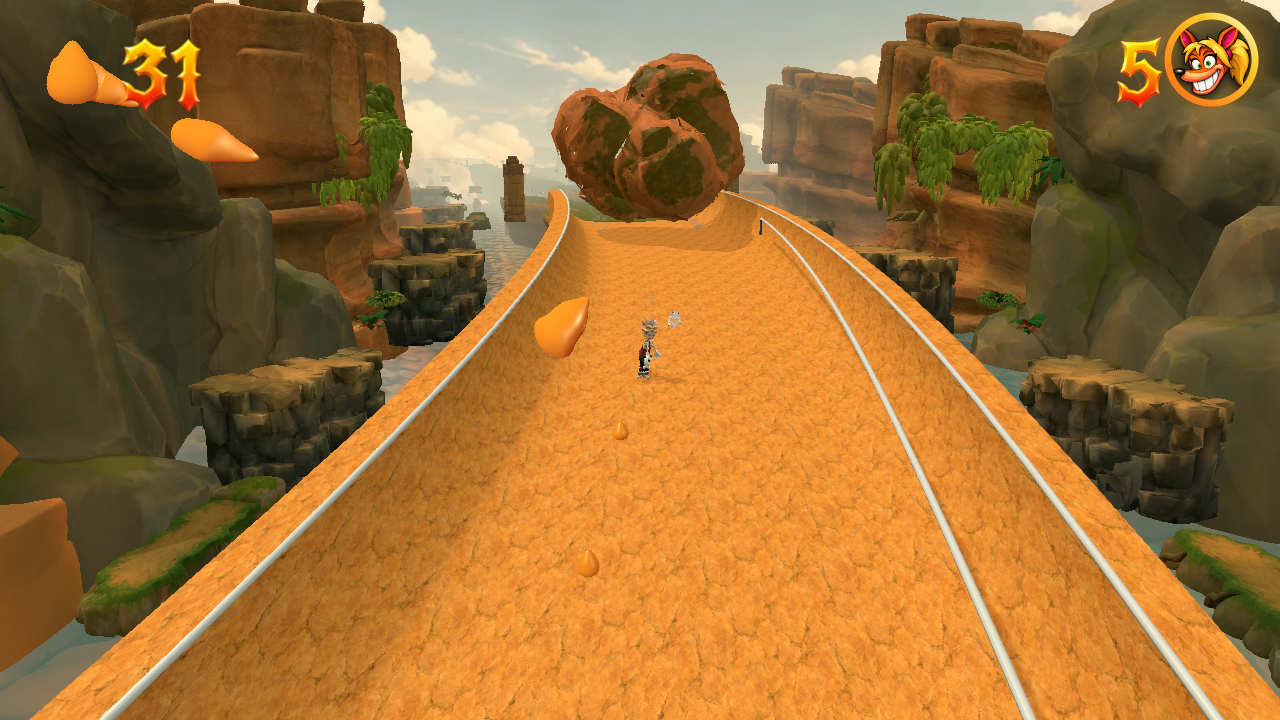
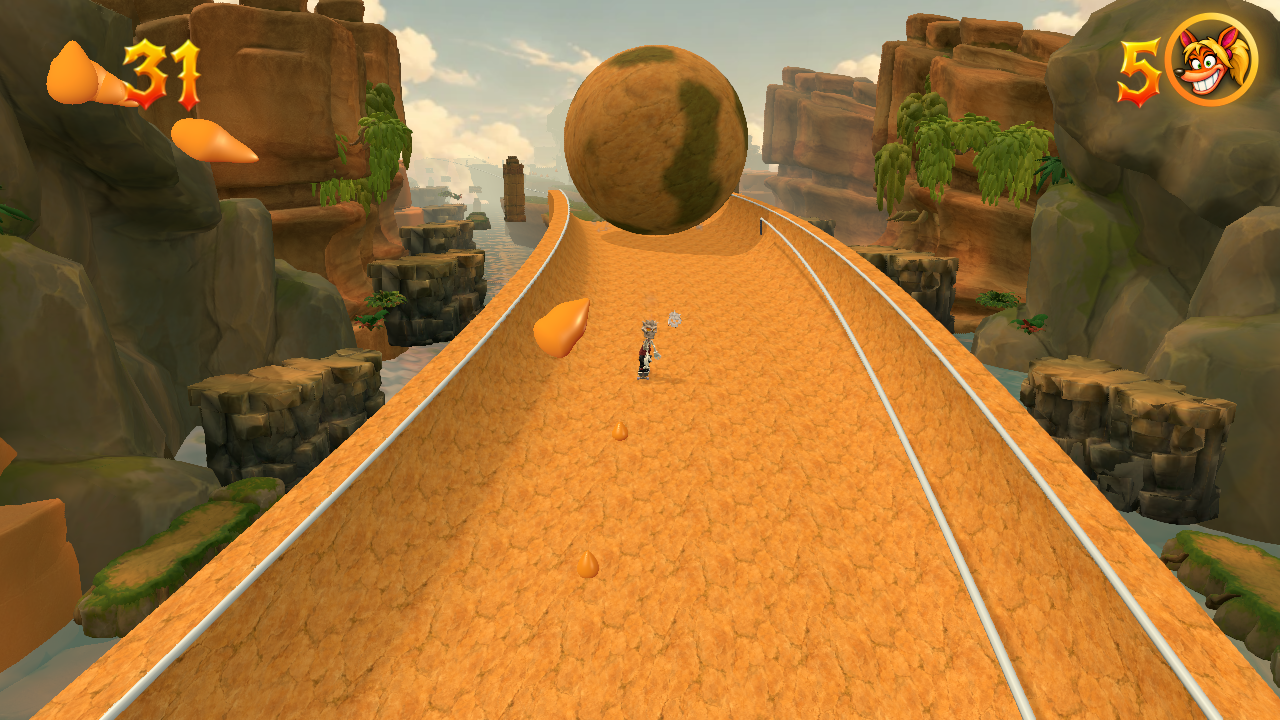
Round the Rumblewater chase boulder and align its roll

diff --git a/src/roundBoulder.ts b/src/roundBoulder.ts
@@ -1,0 +1,72 @@
+import * as THREE from 'three';
+import {mergeVertices} from 'three/examples/jsm/utils/BufferGeometryUtils.js';
+
+const seeds=Array.from({length:27},(_,i)=>{
+  const y=1-2*(i+.5)/27,a=i*2.399963229728653,r=Math.sqrt(1-y*y);
+  return new THREE.Vector3(r*Math.cos(a),y,r*Math.sin(a));
+});
+const smooth=(a:number,b:number,x:number)=>THREE.MathUtils.smoothstep(x,a,b);
+const weather=(p:THREE.Vector3)=>.45*Math.sin(p.x*7.3+p.y*3.4)*Math.cos(p.z*5.8-p.y*2.3)
+  +.35*Math.sin(p.z*11.1-p.x*4.6)*Math.cos(p.y*8.2+p.x*1.8)
+  +.2*Math.sin(p.x*19.2+p.z*16.7)*Math.sin(p.y*17.3-p.z*7.1);
+
+/** One continuous spherical shell. Relief is bounded to 1.8% of the radius;
+ * weathering and hairline joints can never turn it back into a pile of slabs. */
+export function roundBoulderSurface(direction:THREE.Vector3):{radius:number;crack:number;moss:number} {
+  let first=-Infinity,second=-Infinity,a=seeds[0],b=seeds[1];
+  for(const seed of seeds){
+    const d=direction.dot(seed);
+    if(d>first){second=first;b=a;first=d;a=seed;}else if(d>second){second=d;b=seed;}
+  }
+  const margin=(first-second)/a.distanceTo(b);
+  const crack=1-smooth(.002,.016,margin);
+  const patch=.5*Math.sin(direction.x*4.7+direction.z*2.6)*Math.cos(direction.y*5.1-1.4)
+    +.3*Math.sin(direction.y*7.8+direction.x*2.1)*Math.cos(direction.z*6.5+.8)+weather(direction)*.2;
+  return {radius:.998+weather(direction)*.002-.014*crack,crack,moss:smooth(.08,.31,patch)};
+}
+
+export function createRoundBoulderGeometry(detail:number):THREE.BufferGeometry {
+  const source=new THREE.IcosahedronGeometry(1,detail);
+  // Triplanar stone has no UV seam; welding also keeps its lighting smooth
+  // across every former icosahedron/texture boundary.
+  source.deleteAttribute('uv');source.deleteAttribute('normal');
+  const geometry=mergeVertices(source,1e-6);source.dispose();
+  const position=geometry.getAttribute('position'),colors=new Float32Array(position.count*3),p=new THREE.Vector3();
+  const stone=new THREE.Color('#ddd5bb'),moss=new THREE.Color('#66884b'),color=new THREE.Color();
+  for(let i=0;i<position.count;i++){
+    p.fromBufferAttribute(position,i).normalize();const surface=roundBoulderSurface(p);
+    position.setXYZ(i,p.x*surface.radius,p.y*surface.radius,p.z*surface.radius);
+    color.copy(stone).lerp(moss,surface.moss*.9).multiplyScalar(1-surface.crack*.37);
+    color.toArray(colors,i*3);
+  }
+  geometry.setAttribute('color',new THREE.BufferAttribute(colors,3));
+  geometry.computeVertexNormals();geometry.computeBoundingBox();geometry.computeBoundingSphere();
+  return geometry;
+}
+
+/** Reuse Custard's detailed sandstone image in object space, so cracks and
+ * moss rotate with the rock with no stretched atlas patches or polar seam. */
+export function createRoundBoulderMaterial(texture:THREE.Texture):THREE.MeshStandardMaterial {
+  texture.colorSpace=THREE.SRGBColorSpace;texture.wrapS=texture.wrapT=THREE.RepeatWrapping;texture.anisotropy=8;
+  const material=new THREE.MeshStandardMaterial({map:texture,bumpMap:texture,bumpScale:.32,roughness:.94,metalness:0,vertexColors:true});
+  material.name='Round weathered Custard sandstone';
+  material.onBeforeCompile=shader=>{
+    shader.vertexShader='varying vec3 vBoulderStone;\n'+shader.vertexShader;
+    shader.vertexShader=shader.vertexShader.replace('#include <begin_vertex>','#include <begin_vertex>\nvBoulderStone=position;');
+    shader.fragmentShader='varying vec3 vBoulderStone;\n'+shader.fragmentShader;
+    shader.fragmentShader=shader.fragmentShader.replace('#include <map_fragment>',`
+      vec3 boulderWeights=pow(abs(normalize(vBoulderStone)),vec3(5.0));
+      boulderWeights/=boulderWeights.x+boulderWeights.y+boulderWeights.z;
+      vec3 stoneAt=vBoulderStone*1.25;
+      vec4 boulderTex=texture2D(map,stoneAt.zy)*boulderWeights.x
+        +texture2D(map,stoneAt.xz)*boulderWeights.y+texture2D(map,stoneAt.xy)*boulderWeights.z;
+      float boulderHeight=dot(boulderTex.rgb,vec3(.299,.587,.114));
+      diffuseColor*=boulderTex;
+    `);
+    shader.fragmentShader=shader.fragmentShader.replace('#include <normal_fragment_maps>',`
+      normal=perturbNormalArb(-vViewPosition,normal,vec2(dFdx(boulderHeight),dFdy(boulderHeight))*bumpScale,faceDirection);
+    `);
+  };
+  material.customProgramCacheKey=()=> 'round-boulder-stone-v1';
+  return material;
+}

diff --git a/src/hazardVisuals.ts b/src/hazardVisuals.ts
@@ -1,4 +1,5 @@
 import * as THREE from 'three';
+import {createRoundBoulderGeometry,createRoundBoulderMaterial} from './roundBoulder';
 import {createJungleAssetScope, type JungleAssetKind, type Template} from './jungleAssets';
 
 /** Cosmetic attachments only: the Level owns every motion curve and collider. */
@@ -7,6 +8,8 @@ export class HazardVisuals {
   private jobs:Promise<void>[]=[];
   private roots:THREE.Object3D[]=[];
   private materials=new Map<string,THREE.MeshStandardMaterial>();
+  private ownedGeometries=new Set<THREE.BufferGeometry>();
+  private ownedTextures=new Set<THREE.Texture>();
   private disposed=false;
   private errors:string[]=[];
   private loaded=0;
@@ -59,13 +62,16 @@ export class HazardVisuals {
   }
 
   rollingBoulder(body:THREE.Mesh,radius:number):void {
-    body.userData.hazardAsset='custardboulder';
+    body.userData.hazardAsset='round-custard-boulder';
     this.queue(body,async()=>{
-      const template=await this.assets.load('custardboulder');if(this.disposed)return;
-      const visual=this.lod(template,this.material('custardboulder',template,'#fff2d8'));
-      visual.name='Sculpted mossy pursuit boulder';
-      visual.scale.set(radius*2,radius*1.84876,radius*1.72356);
-      visual.position.y=-radius*.92438;
+      const texture=await new THREE.TextureLoader().loadAsync(import.meta.env.BASE_URL+'custard-creek/sandstone-albedo.webp');
+      if(this.disposed){texture.dispose();return;}
+      this.ownedTextures.add(texture);
+      const geometry=createRoundBoulderGeometry(28),lodGeometry=createRoundBoulderGeometry(14);
+      this.ownedGeometries.add(geometry);this.ownedGeometries.add(lodGeometry);
+      const material=createRoundBoulderMaterial(texture);this.materials.set('round-custard-boulder',material);
+      const visual=this.lod({geometry,lodGeometry,map:texture},material);
+      visual.name='Round cracked mossy pursuit boulder';visual.scale.setScalar(radius);
       body.add(visual);this.roots.push(visual);
       for(const m of Array.isArray(body.material)?body.material:[body.material])m.visible=false;
       body.userData.hazardAssetReady=true;this.loaded++;
@@ -104,6 +110,8 @@ export class HazardVisuals {
     }
     this.roots.length=0;this.jobs.length=0;
     for(const material of this.materials.values())material.dispose();this.materials.clear();
+    for(const geometry of this.ownedGeometries)geometry.dispose();this.ownedGeometries.clear();
+    for(const texture of this.ownedTextures)texture.dispose();this.ownedTextures.clear();
     this.assets.dispose();
   }
 }

diff --git a/src/boulderChase.ts b/src/boulderChase.ts
@@ -81,7 +81,7 @@ export class BoulderChase {
     this.playerProgress=this.project(spawn);this.progress=Math.max(0,this.playerProgress-this.data.headStart);
     this.trigger=this.playerProgress+5;this.release=.65;this.speed=0;
     this.active=this.falling=this.finished=false;this.fallV=0;
-    this.sample(this.progress,this.stone.mesh.position).y+=this.data.radius*.94;
+    this.sample(this.progress,this.stone.mesh.position).y+=this.data.radius;
     this.stone.mesh.quaternion.identity();this.stone.mesh.visible=true;this.stone.box.makeEmpty();
   }
 
@@ -102,11 +102,13 @@ export class BoulderChase {
     const target=THREE.MathUtils.clamp(this.data.speed+(gap-this.data.headStart)*1.4,6.4,40);
     this.speed+=THREE.MathUtils.clamp(target-this.speed,-10*dt,12*dt);
     const distance=this.speed*dt;this.progress=Math.min(this.length,this.progress+distance);
-    this.sample(this.progress,this.stone.mesh.position).y+=this.data.radius*.94;
+    this.sample(this.progress,this.stone.mesh.position).y+=this.data.radius;
     this.tangent(this.progress,this.direction);this.axis.set(this.direction.z,0,-this.direction.x);
     this.turn.setFromAxisAngle(this.axis,distance/this.data.radius);this.stone.mesh.quaternion.premultiply(this.turn);
-    // Narrower than the visible diameter: the irregular rim is generous.
-    this.stone.box.setFromCenterAndSize(this.stone.mesh.position,this.boxSize.set(this.data.radius*1.55,this.data.radius*1.9,this.data.radius*1.55));
+    // Keep the original forgiving contact envelope at its authored floor
+    // height; only the round visual centre moves up to its rolling radius.
+    this.point.copy(this.stone.mesh.position);this.point.y-=this.data.radius*.06;
+    this.stone.box.setFromCenterAndSize(this.point,this.boxSize.set(this.data.radius*1.55,this.data.radius*1.9,this.data.radius*1.55));
     this.stone.speed=this.speed;
     if(this.progress>=this.length){this.active=false;this.falling=true;this.stone.box.makeEmpty();}
     return began;

diff --git a/docs/RUMBLEWATER_RUN.md b/docs/RUMBLEWATER_RUN.md
@@ -18,7 +18,7 @@ The small `boulderChase` level-data extension retains its ordered floor path thr
 
 ## Art
 
-Reuse the existing commissioned Custard Creek and Carlisle Coast asset catalogue, including the textured moss boulder, layered gorge cliffs, eroded buttresses, willows, ferns, temple remnants, and mill. Preserve model proportions, compressed textures, distance LOD, and shared resource disposal. No new paid generation or third-party asset import was needed. Native sandstone/moss surfaces, connected deep shoulders, a submerged riverbed, and the animated creek make the route belong to the same world. Art placements live in `src/levels/rumblewater-art.ts`.
+Reuse the existing commissioned Custard Creek and Carlisle Coast asset catalogue, including layered gorge cliffs, eroded buttresses, willows, ferns, temple remnants, and mill. Scenery preserves model proportions, compressed textures, distance LOD, and shared resource disposal. The pursuing boulder uses a closed spherical shell with shallow weathering, fissures and moss, detailed with the existing Custard sandstone texture. Its centre sits one rolling radius above the route, and its rotation advances by travelled distance divided by that radius. No new paid generation or third-party asset import was needed. Native sandstone/moss surfaces, connected deep shoulders, a submerged riverbed, and the animated creek make the route belong to the same world. Art placements live in `src/levels/rumblewater-art.ts`.
 
 `public/level-previews/rumblewater-run.jpg` and `docs/art-reviews/rumblewater-run.png` are real gameplay captures.
 
@@ -26,6 +26,7 @@ Reuse the existing commissioned Custard Creek and Carlisle Coast asset catalogue
 
 - `node tools/test-rumblewater.mjs`: all four input-only route combinations (35.05–36.68 seconds), actual water death/checkpoint return, and an actual boulder catch when the runner stops. Native traces go to `/private/tmp/rumblewater-evidence`.
 - `node tools/test-rumblewater-structure.mjs`: source/editor round trip, preserved new identity, eleven actual support probes, eight open gap probes, gate, kill plane, and pipe/rail inventory.
+- `node tools/test-round-boulder.mjs`: both closed sphere LODs, 360-direction roundness, 600 rolling steps, preserved collision height and resource/late-load disposal.
 - `node tools/test-boulder-chase.mjs`: bounded pursuit acceleration, stationary danger, checkpoint grace, finite end fall, and framing at 16:9, 4:3, portrait, and short landscape.
 - `tools/rumblewater-review.html?take=inner-low` runs a real browser input replay in lite mode. `?take=outer-high&full` runs the fully rendered grind route; `take=recovery` and `take=stall` exercise failure behavior. This review page is development-only. It reports framing, assets, deaths, bails, checkpoints and console errors, and captures gameplay frames at the four key sections.
 - Required `check:levels` commands, production TypeScript/Vite build, camera regression, campaign identity/unlock checks, and actual map travel in both directions. The extracted high-air camera test receives the real current camera dependencies. No full-suite run.

diff --git a/docs/LEVEL_ITERATIONS.md b/docs/LEVEL_ITERATIONS.md
@@ -1535,3 +1535,11 @@
 - Dress the course with existing textured Custard/Carlisle mossy boulder, cliffs, willow/fern, mill and carved-ruin assets, actual sculpted banks, connected deep geology and water over a submerged riverbed. Preserve source proportions, shared compressed textures/LODs and disposal; no asset purchase or movement changes.
 - All four native route combinations finish in **35.05–36.68 s** without deaths/bails. Actual water death returns to the first earned checkpoint; standing still produces a boulder death. Editor round-trip, eleven support/eight void probes, bounded pursuit/reset/end-fall tests, camera checks at four aspect ratios, existing high-air camera regression, campaign identities and map travel both ways pass. Real Chrome lite/full takes verify complete routes, actual grinds, checkpoints, finish and framed player with clean consoles. Full rendering verifies natural water/checkpoint recovery and boulder capture; portrait completes the grind route with all rider bounds in frame. Section captures review the pipe and fork artwork. Required level-check script contents and production type-check/build pass; no full suite. See `docs/RUMBLEWATER_RUN.md` for reproduction and evidence.
 - Develop and publish from a dedicated worktree on current origin/main, preserving the unrelated primary workspace changes.
+
+
+## 2026-10-14 · Make Rumblewater's pursuing boulder round
+
+- Follow-up: roundness must carry the rolling motion; keep surface imperfections and cracks shallow. Approximately **8 minutes feedback-to-first full-render rolling review**, followed by geometry, motion, gameplay and release checks.
+- Replace the deeply split Meshy chase silhouette with a single closed spherical shell at both LODs. Keep the silhouette round while adding bounded shallow fissures, weathering and moss, with the existing detailed Custard sandstone sampled seamlessly in object space. Other uses of the original rock asset remain intact.
+- Centre the visual exactly one nominal radius above the route and rotate by distance/radius. Keep the original ground-relative damage envelope, pursuit speed, head starts, course and player tuning. Dispose the new owned geometry/texture, including late texture completions after level exit.
+- Test both watertight/outward-facing sphere meshes from 360 directions: directional diameter varies by **0.107% near / 0.196% far**, while recessed surface detail remains inside **1.73%** of the radius. Verify 600 rolling steps, preserved contact height and clean resource disposal. Existing chase/reset/fall/camera tests, the native full grind route, actual boulder death, water/checkpoint return and production build pass. Browser review checks the rotating silhouette through multiple orientations and refreshes the real gameplay preview. No level geometry or movement tuning changes; no full suite.
